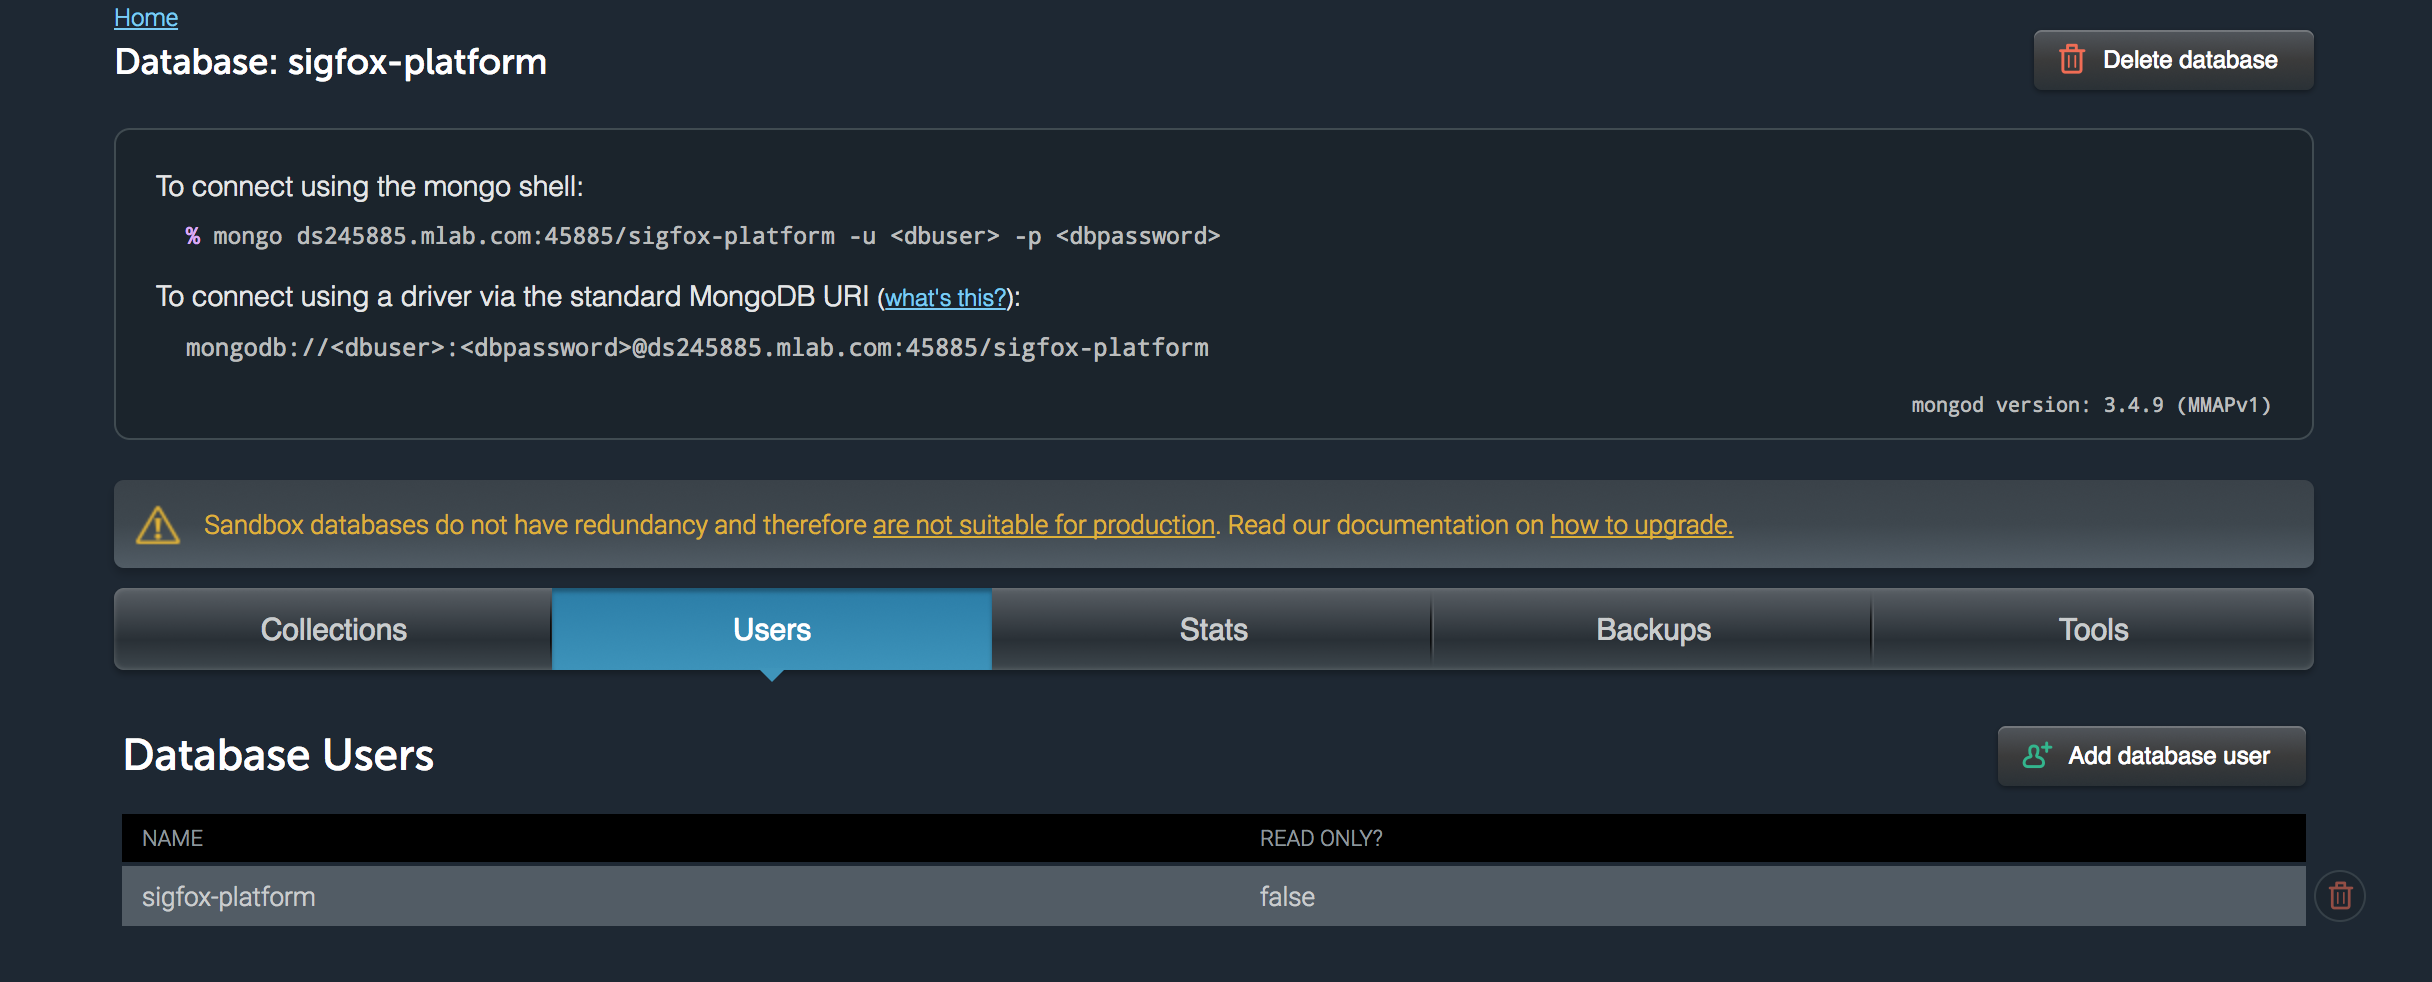
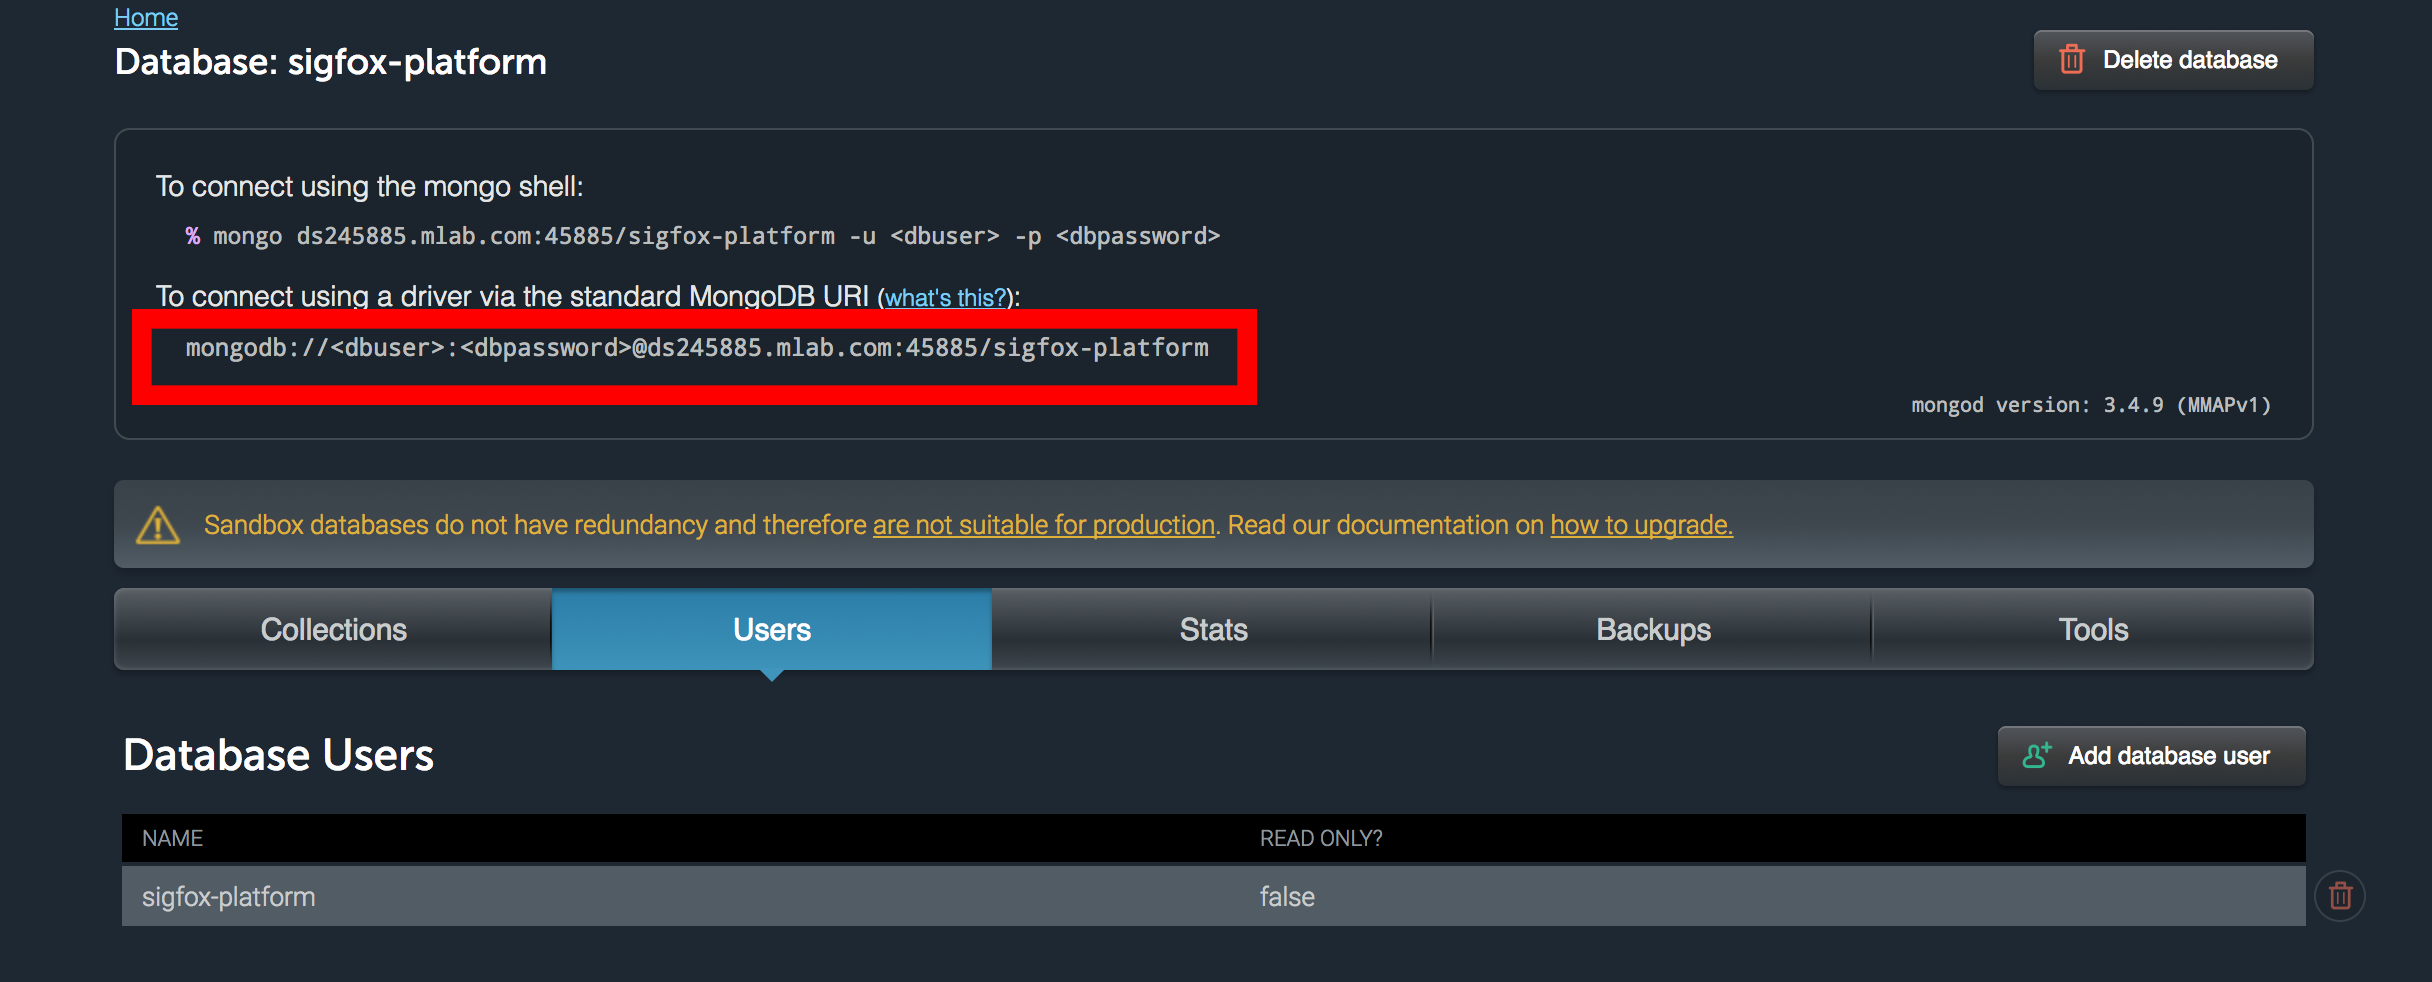
added indication on screenshots

Changed region(s): [[0.0312, 0.3055, 0.5312, 0.4277]]

diff --git a/README.md b/README.md
@@ -36,6 +36,8 @@ That's it!
 
 ## See your messages in Sigfox Backend
 
+![backend device list](screenshots/backend-device-list.png)
+
 Now go to [Sigfox Backend](https://backend.sigfox.com) and login with the credentials you've been given.
 Click on the device menu and select your device.
 
@@ -63,26 +65,22 @@ Deploy an instance on your Heroku account to play around with it!
 
 [![Deploy](https://www.herokucdn.com/deploy/button.svg)](https://heroku.com/deploy?template=https://github.com/luisomoreau/sigfox-platform/)
 
-An alternative way to get it running at Heroku is to install the [Heroku Toolbelt](https://heroku.com/deploy?template=https://github.com/luisomoreau/sigfox-platform/) and follow these steps:
 
-```
-git clone https://github.com/luisomoreau/sigfox-platform.git my-project
-cd my-project
-heroku apps:create my-project
-git push heroku master
-```
-
-If you are not familiar with Heroku, just create an account an follow the procedure:
+If you are not familiar with Heroku, just create an account and follow the procedure:
 
 1. **Create a new app:**
 
+Choose the name you want and the region does not really matter for this testing purpose.
+
 ![create app](screenshots/deploy-1.png)
+
+Click then on deploy app.
 
 2. **Build & deploy app:**
 
 ![build app](screenshots/deploy-2.png)
 
-3. **(Optional) Link the application with a MongoDB MLab database (Free):**
+3. **Link the application with a MongoDB MLab database (Free):**
 
 *Note that if you don't link a database to your application, all the data will be erased every time the application restarts.*
 
@@ -120,7 +118,7 @@ If you are not familiar with Heroku, just create an account an follow the proced
 
 ![heroku-show-env-variables](screenshots/heroku-show-env-variables.png)
 
-* Click on Reveal Config Vars and add your MongoDB URI:
+* Click on Reveal Config Vars and add your MongoDB URI (Don't forget to replace your username and password):
 
 ![heroku-add-MONGODB_URI](screenshots/heroku-add-MONGODB_URI.png)
 
